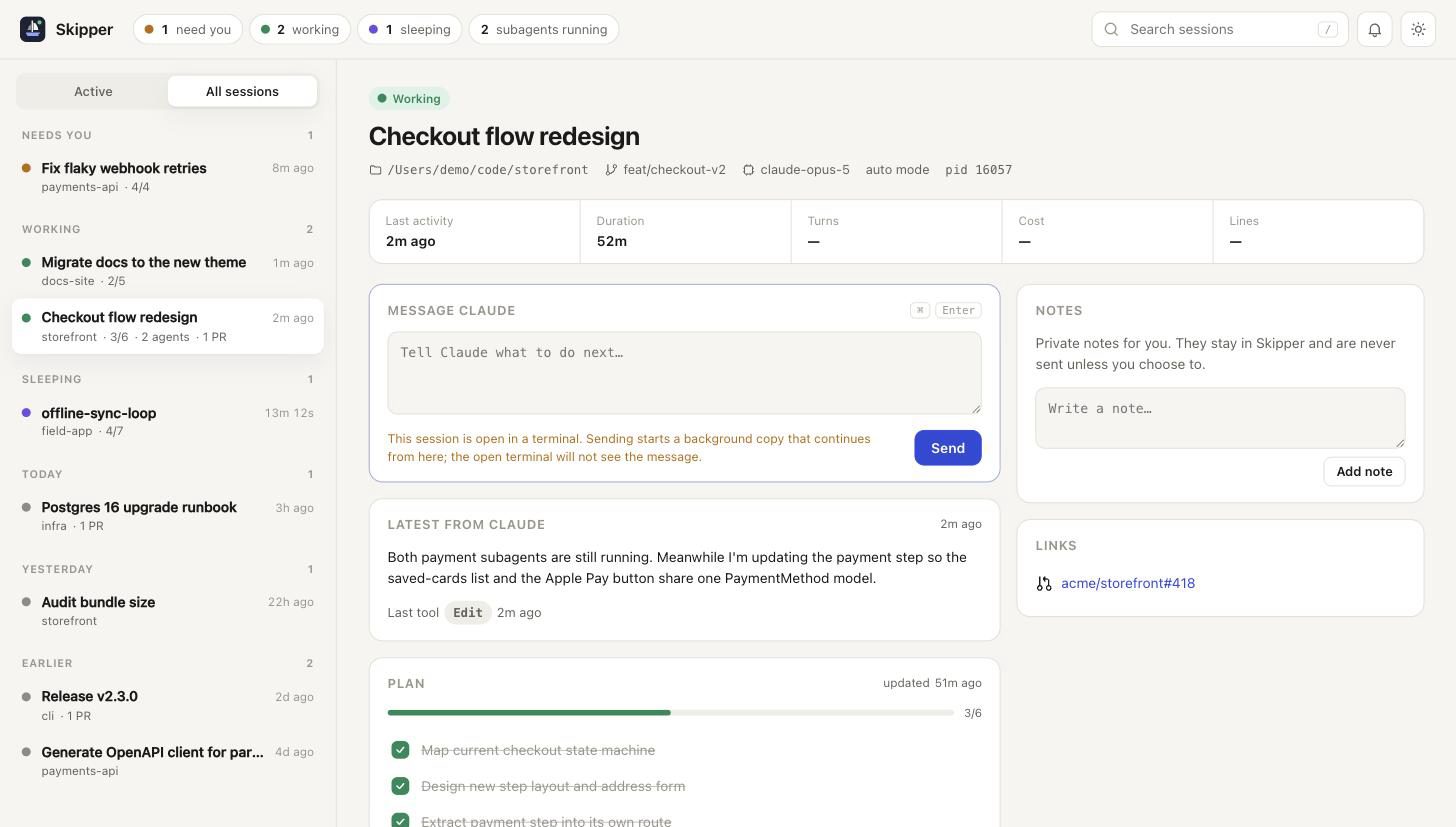
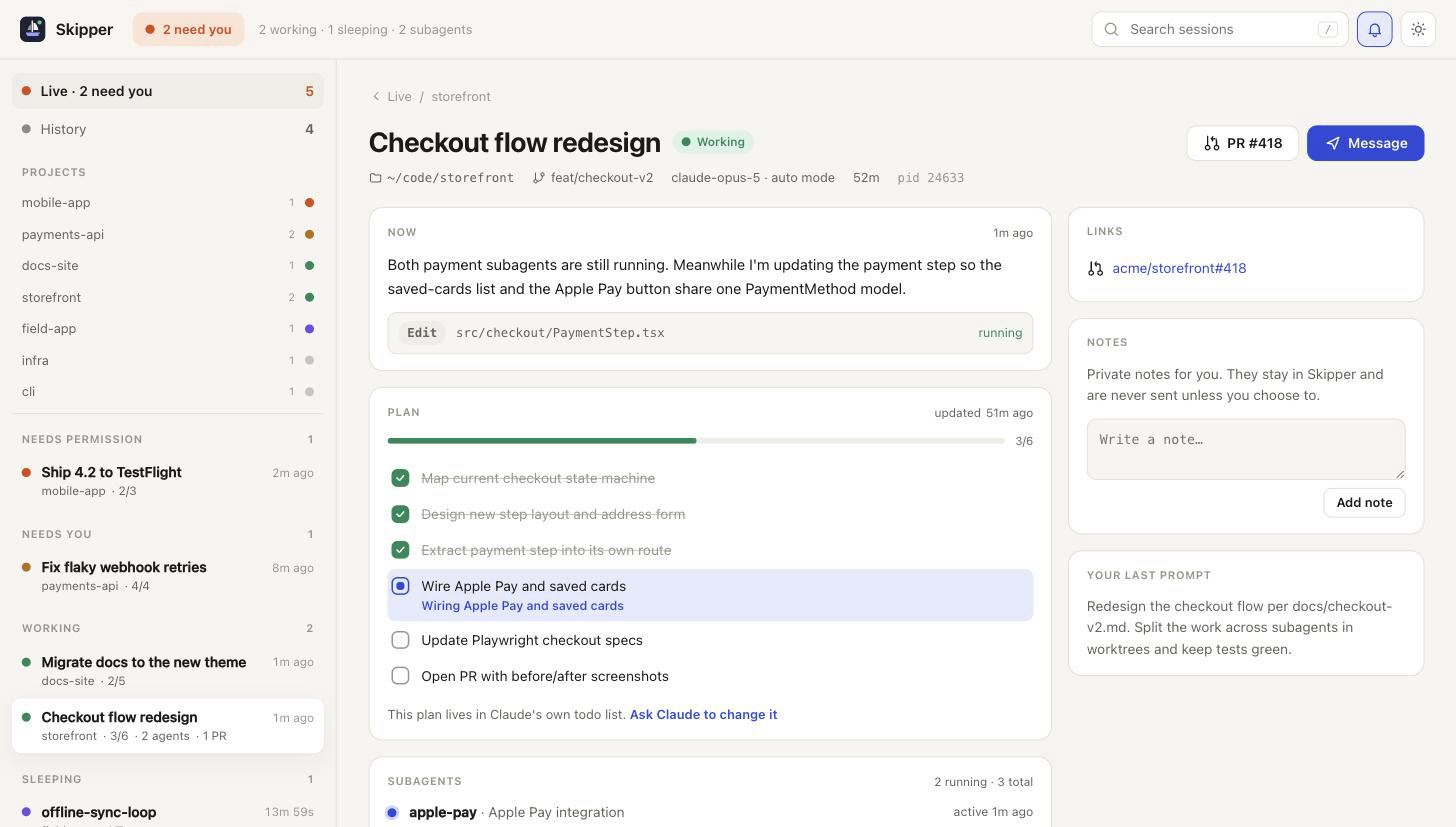
Redesign the session page
- Breadcrumb, title with state chip, and PR / Message actions in the header
- One meta line for path, branch, model, duration, turns, cost and lines
- Now card shows what the running tool is working on (file or command)
- Subagents as compact rows with status dots
- Composer docked below the work with a short delivery note
- Links, notes and the last prompt move to the side column

diff --git a/public/app.js b/public/app.js
@@ -632,16 +632,14 @@ function attentionPanel(d) {
 
 function composerPanel(d) {
   if (state.readOnly) return null;
-  const hint = d.live
-    ? 'This session is open in a terminal. Sending starts a background copy that continues from here; the open terminal will not see the message.'
-    : 'Continues this session in the background with claude --bg --resume. Open it any time with claude attach.';
-  return h('section', { class: `panel composer${d.live ? ' warn' : ''}`, id: 'composer' },
-    h('div', { class: 'panel-head' }, h('h2', {}, 'Message Claude'), h('span', { class: 'meta' }, h('kbd', {}, '⌘'), h('kbd', {}, 'Enter'))),
+  const note = d.live ? 'Open in a terminal · sends to a background copy' : 'Continues in the background · claude attach to open';
+  return h('section', { class: `composer-dock${d.live ? ' warn' : ''}`, id: 'composer' },
     h('form', { dataset: { action: 'message-send' } },
-      h('textarea', { name: 'message', rows: '3', maxlength: '20000', placeholder: d.state === 'waiting' ? 'Answer Claude or give the next instruction…' : 'Tell Claude what to do next…', 'aria-label': 'Message to Claude', dataset: { draft: 'message' } }, state.drafts.message[d.id] || ''),
+      h('textarea', { name: 'message', rows: '2', maxlength: '20000', placeholder: d.state === 'waiting' ? 'Answer Claude or give the next instruction…' : 'Tell Claude what to do next…', 'aria-label': 'Message to Claude', dataset: { draft: 'message' } }, state.drafts.message[d.id] || ''),
       h('div', { class: 'composer-foot' },
-        h('p', { class: 'hint' }, hint),
-        h('button', { class: 'btn primary', type: 'submit', disabled: state.sending ? true : null }, state.sending ? 'Sending…' : 'Send')),
+        h('span', { class: 'composer-note', title: d.live ? 'Claude Code has no public way to type into an open terminal, so Skipper resumes the conversation in the background with claude --bg --resume.' : null }, note),
+        h('span', { class: 'composer-keys' }, h('kbd', {}, '⌘'), h('kbd', {}, 'Enter')),
+        h('button', { class: 'btn primary', type: 'submit', disabled: state.sending ? true : null }, icon('send'), state.sending ? 'Sending…' : 'Send')),
     ),
   );
 }
@@ -678,21 +676,18 @@ function agentsPanel(d) {
   if (!d.agents.length) return null;
   const running = d.agents.filter((a) => a.status === 'running').length;
   return panel('Subagents', h('span', { class: 'meta' }, `${running} running · ${d.agents.length} total`),
-    h('div', { class: 'items' }, d.agents.slice(0, 12).map((a) =>
-      h('div', { class: 'item' },
-        h('div', { class: 'item-top' },
-          h('span', { class: 'item-title' }, a.name || a.description || a.agentType),
-          h('span', { class: `chip ${a.status}` }, a.status),
-        ),
-        a.name && a.description ? h('span', { class: 'muted' }, a.description) : null,
-        h('div', { class: 'meta-row' },
-          h('span', { class: 'meta' }, icon('bot'), a.agentType),
-          a.model ? h('span', { class: 'meta' }, icon('chip'), a.model) : null,
-          a.worktreeBranch ? h('span', { class: 'meta' }, icon('branch'), a.worktreeBranch) : null,
-          a.background ? h('span', { class: 'meta' }, 'background') : null,
-          h('span', { class: 'meta' }, a.status === 'running' && a.lastActiveAt ? ['active ', relTime(a.lastActiveAt)] : ['started ', relTime(a.startedAt)]),
-        ),
-        a.result && a.status !== 'running' ? h('div', { class: 'item-result' }, plain(a.result)) : null,
+    h('div', { class: 'agent-rows' }, d.agents.slice(0, 12).map((a) =>
+      h('div', { class: `agent-row ${a.status}` },
+        h('i', { class: `dot agent-${a.status}` }),
+        h('div', { class: 'agent-main' },
+          h('span', { class: 'agent-name' }, a.name || a.description || a.agentType, a.name && a.description ? h('span', { class: 'muted' }, ` · ${a.description}`) : null),
+          h('span', { class: 'agent-meta' },
+            a.model ? h('span', {}, a.model) : h('span', {}, a.agentType),
+            a.worktreeBranch ? h('span', { class: 'meta' }, icon('branch'), a.worktreeBranch) : null,
+            a.background ? h('span', {}, 'background') : null),
+          a.result && a.status !== 'running' ? h('span', { class: 'item-result' }, plain(a.result)) : null),
+        h('span', { class: 'agent-when' },
+          a.status === 'running' ? (a.lastActiveAt ? ['active ', relTime(a.lastActiveAt)] : ['started ', relTime(a.startedAt)]) : a.status === 'completed' ? 'done' : a.status),
       ),
     )),
     d.agents.length > 12 ? h('p', { class: 'muted' }, `+ ${d.agents.length - 12} earlier subagents`) : null,
@@ -761,36 +756,46 @@ function renderDetail(d) {
   if (!d) {
     return h('div', { class: 'empty' }, h('h1', {}, 'Session not found'), h('p', {}, h('a', { href: '#/' }, 'Back to overview')));
   }
-  const strip = (label, value) => h('div', {}, h('dt', {}, label), h('dd', {}, value));
-  const nowPanel = d.lastText
-    ? panel(d.state === 'ended' ? 'Last message' : 'Latest from Claude', h('span', { class: 'meta' }, relTime(d.lastTextAt)),
-      h('p', { class: 'quote clamp' }, plain(d.lastText)),
-      d.lastTool && d.state !== 'ended' ? h('p', { class: 'meta', style: 'margin:12px 0 0' }, 'Last tool ', h('span', { class: 'chip mono' }, toolName(d.lastTool.name)), relTime(d.lastTool.at)) : null)
+  const running = d.state === 'working';
+  const nowPanel = d.lastText || d.lastTool
+    ? h('section', { class: 'panel now-panel' },
+      h('div', { class: 'panel-head' }, h('h2', {}, d.state === 'ended' ? 'Last message' : 'Now'), h('span', { class: 'meta' }, relTime(d.lastTextAt || d.updatedAt))),
+      d.lastText ? h('p', { class: 'quote clamp now-text' }, plain(d.lastText)) : null,
+      d.lastTool && d.state !== 'ended'
+        ? h('div', { class: 'tool-row' },
+          h('span', { class: 'chip mono' }, toolName(d.lastTool.name)),
+          d.lastTool.target ? h('span', { class: 'tool-target mono' }, d.lastTool.target) : null,
+          h('span', { class: `tool-when${running ? ' live' : ''}` }, running ? 'running' : relTime(d.lastTool.at)))
+        : null)
     : null;
+  const pr = d.prs[d.prs.length - 1];
+  const stats = [
+    d.startedAt && d.updatedAt ? duration(d.updatedAt - d.startedAt) : null,
+    d.turns ? `${d.turns} turn${d.turns === 1 ? '' : 's'}` : null,
+    d.cost ? `$${d.cost.usd.toFixed(2)}` : null,
+  ].filter(Boolean);
 
-  return h('article', {},
-    h('a', { class: 'back', href: '#/' }, icon('back'), 'Overview'),
-    h('header', { class: 'detail-head' },
-      h('span', { class: `chip ${d.state}` }, h('i', { class: `dot ${d.state}` }), STATE_LABEL[d.state]),
-      h('h1', {}, d.title),
-      h('div', { class: 'meta-row' },
-        d.cwd ? h('span', { class: 'meta mono', title: d.cwd }, icon('folder'), d.cwd) : null,
-        d.branch && d.branch !== 'HEAD' ? h('span', { class: 'meta' }, icon('branch'), d.branch) : null,
-        d.model ? h('span', { class: 'meta' }, icon('chip'), d.model) : null,
-        d.permissionMode ? h('span', { class: 'meta' }, `${d.permissionMode} mode`) : null,
-        d.pid ? h('span', { class: 'meta mono' }, `pid ${d.pid}`) : null,
-      ),
-    ),
-    h('dl', { class: 'strip' },
-      strip('Last activity', relTime(d.updatedAt)),
-      strip('Duration', duration(d.updatedAt - d.startedAt)),
-      strip('Turns', d.turns || '—'),
-      strip('Cost', d.cost ? `$${d.cost.usd.toFixed(2)}` : '—'),
-      strip('Lines', d.cost ? `+${d.cost.linesAdded} −${d.cost.linesRemoved}` : '—'),
-    ),
+  return h('article', { class: 'session-page' },
+    h('nav', { class: 'crumbs', 'aria-label': 'Breadcrumb' },
+      h('a', { href: '#/' }, icon('back'), d.live ? 'Live' : 'History'), h('span', {}, '/'), h('span', {}, d.project)),
+    h('header', { class: 'session-head' },
+      h('div', { class: 'session-title' },
+        h('div', { class: 'title-row' },
+          h('h1', {}, d.title),
+          h('span', { class: `chip ${d.state}` }, h('i', { class: `dot ${d.state}` }), STATE_LABEL[d.state])),
+        h('div', { class: 'meta-line' },
+          d.cwd ? h('span', { class: 'meta mono', title: d.cwd }, icon('folder'), d.cwd.replace(/^\/(Users|home)\/[^/]+/, '~')) : null,
+          d.branch && d.branch !== 'HEAD' ? h('span', { class: 'meta' }, icon('branch'), d.branch) : null,
+          d.model ? h('span', { class: 'meta' }, [d.model, d.permissionMode ? `${d.permissionMode} mode` : null].filter(Boolean).join(' · ')) : null,
+          stats.length || d.cost ? h('span', { class: 'meta' }, stats.join(' · '),
+            d.cost ? [' · ', h('span', { class: 'plus' }, `+${d.cost.linesAdded}`), ' ', h('span', { class: 'minus' }, `−${d.cost.linesRemoved}`)] : null) : null,
+          d.pid ? h('span', { class: 'meta mono faint' }, `pid ${d.pid}`) : null)),
+      h('div', { class: 'head-actions' },
+        pr && safeHref(pr.url) ? h('a', { class: 'btn', href: safeHref(pr.url), target: '_blank', rel: 'noopener noreferrer' }, icon('pr'), pr.number ? `PR #${pr.number}` : 'Pull request') : null,
+        state.readOnly ? null : h('button', { class: 'btn primary', type: 'button', dataset: { action: 'focus-composer' } }, icon('send'), 'Message'))),
     detailGrid(
-      [attentionPanel(d), composerPanel(d), nowPanel, planPanel(d), agentsPanel(d), d.lastPrompt ? panel('Your last prompt', null, h('p', { class: 'quote clamp' }, d.lastPrompt)) : null],
-      [loopPanel(d), notesPanel(d), workflowsPanel(d), teamPanel(d), linksPanel(d)],
+      [attentionPanel(d), nowPanel, planPanel(d), agentsPanel(d), composerPanel(d)],
+      [loopPanel(d), linksPanel(d), notesPanel(d), workflowsPanel(d), teamPanel(d), d.lastPrompt ? panel('Your last prompt', null, h('p', { class: 'quote clamp muted' }, d.lastPrompt)) : null],
     ),
   );
 }
@@ -940,6 +945,9 @@ async function runAction(action, el, form) {
       case 'task-delete':
         await api('DELETE', `${base}/tasks/${el.dataset.task}`);
         break;
+      case 'focus-composer':
+        focusComposer();
+        return;
       case 'cancel-edit':
         state.editing = null;
         render();

diff --git a/public/app.css b/public/app.css
@@ -598,3 +598,66 @@ button.box:hover { border-color: var(--accent); }
 .rail-project small { color: var(--faint); font-variant-numeric: tabular-nums; }
 .rail-project .dot.ended { opacity: .45; }
 .rail-project[aria-pressed="true"] { background: var(--accent-soft); color: var(--accent); font-weight: 600; }
+
+/* ---------- Redesign: session page ---------- */
+.session-page { display: flex; flex-direction: column; gap: 20px; }
+.crumbs { display: flex; align-items: center; gap: 8px; color: var(--faint); font-size: 13px; }
+.crumbs a { display: inline-flex; align-items: center; gap: 4px; color: var(--faint); }
+.crumbs svg { width: 15px; height: 15px; }
+.session-head { display: flex; justify-content: space-between; align-items: flex-start; gap: 24px; }
+.session-title { display: flex; flex-direction: column; gap: 10px; min-width: 0; }
+.title-row { display: flex; align-items: center; gap: 12px; flex-wrap: wrap; }
+.title-row h1 { margin: 0; font-size: 28px; }
+.meta-line { display: flex; flex-wrap: wrap; gap: 6px 18px; }
+.meta.faint { color: var(--faint); }
+.plus { color: var(--working); }
+.minus { color: var(--danger); }
+.head-actions { display: flex; gap: 8px; flex: none; }
+.head-actions .btn { text-decoration: none; }
+.session-page .detail-grid { grid-template-columns: minmax(0, 1fr) 360px; }
+.session-page .detail-grid.single { grid-template-columns: minmax(0, 900px); }
+.session-page .panel-head h2 { font-size: 11px; letter-spacing: .06em; }
+.now-text { font-size: 15px; line-height: 1.6; }
+.tool-row { display: flex; align-items: center; gap: 10px; margin-top: 12px; padding: 8px 10px; border-radius: 9px; background: var(--bg); border: 1px solid var(--border); min-width: 0; }
+.tool-target { color: var(--muted); overflow: hidden; text-overflow: ellipsis; white-space: nowrap; flex: 1; min-width: 0; }
+.tool-when { margin-left: auto; color: var(--faint); font-size: 12.5px; white-space: nowrap; }
+.tool-when.live { color: var(--working); }
+
+.agent-rows { display: flex; flex-direction: column; }
+.agent-row { display: grid; grid-template-columns: 10px minmax(0, 1fr) auto; gap: 12px; align-items: start; padding: 10px 0; border-top: 1px solid var(--border); }
+.agent-row:first-child { border-top: 0; padding-top: 0; }
+.agent-row .dot { margin-top: 6px; }
+.dot.agent-running { background: var(--accent); box-shadow: 0 0 0 3px color-mix(in srgb, var(--accent) 22%, transparent); }
+.dot.agent-completed { background: var(--working); }
+.dot.agent-failed { background: var(--danger); }
+.dot.agent-quiet, .dot.agent-stopped { background: var(--ended); }
+.agent-main { display: flex; flex-direction: column; gap: 2px; min-width: 0; }
+.agent-name { font-weight: 590; overflow: hidden; text-overflow: ellipsis; white-space: nowrap; }
+.agent-name .muted { font-weight: 400; }
+.agent-meta { display: flex; flex-wrap: wrap; gap: 4px 12px; color: var(--faint); font-size: 12.5px; }
+.agent-meta .meta { font-size: 12.5px; color: var(--faint); }
+.agent-meta .meta svg { width: 13px; height: 13px; }
+.agent-when { color: var(--muted); font-size: 12.5px; white-space: nowrap; }
+.agent-row.completed .agent-when { color: var(--working); }
+.agent-row.failed .agent-when { color: var(--danger); }
+
+.composer-dock { padding: 12px; border: 1px solid color-mix(in srgb, var(--accent) 38%, var(--border)); border-radius: 16px; background: var(--surface); box-shadow: 0 12px 32px rgb(0 0 0 / 18%); }
+.composer-dock textarea { border: 0; background: transparent; box-shadow: none; font-size: 15px; min-height: 56px; resize: none; padding: 6px 8px; }
+.composer-dock textarea:focus { box-shadow: none; }
+.composer-dock:focus-within { border-color: var(--accent); }
+.composer-dock .composer-foot { margin-top: 6px; }
+.composer-note { padding: 4px 10px; border-radius: 999px; background: var(--surface-2); color: var(--muted); font-size: 12px; font-weight: 600; white-space: nowrap; overflow: hidden; text-overflow: ellipsis; min-width: 0; }
+.composer-dock.warn .composer-note { background: var(--waiting-soft); color: var(--waiting); }
+.composer-keys { display: flex; gap: 4px; margin-left: auto; }
+
+@media (max-width: 1180px) {
+  .session-page .detail-grid { grid-template-columns: minmax(0, 1fr); }
+}
+@media (max-width: 900px) {
+  .session-head { flex-direction: column; gap: 14px; }
+  .title-row h1 { font-size: 22px; }
+  .composer-keys { display: none; }
+  .composer-dock .composer-foot { flex-direction: row; align-items: center; }
+  .composer-dock .btn.primary { height: 44px; }
+  .crumbs { display: none; }
+}

diff --git a/test/transcript.test.js b/test/transcript.test.js
@@ -67,3 +67,8 @@ test('sidechain records are ignored and malformed records do not throw', () => {
   const s = fold([null, 42, { type: 'assistant', isSidechain: true, message: { content: [{ type: 'text', text: 'nope' }] } }]);
   assert.equal(s.lastText, null);
 });
+
+test('last tool records what it is working on', () => {
+  const s = fold([tool('Edit', { file_path: 'src/checkout/PaymentStep.tsx', old_string: 'a' }, 'e1'), tool('Bash', { command: 'npm test\nnpm run lint' }, 'b1', 2)]);
+  assert.deepEqual({ name: s.lastTool.name, target: s.lastTool.target }, { name: 'Bash', target: 'npm test' });
+});

diff --git a/src/transcript.js b/src/transcript.js
@@ -72,7 +72,8 @@ function applyNotification(s, text, at) {
 
 function applyToolUse(s, block, at) {
   const input = block.input || {};
-  s.lastTool = { name: block.name, at };
+  const target = input.file_path || input.notebook_path || input.command || input.pattern || input.url || input.query || input.description || input.skill || null;
+  s.lastTool = { name: block.name, at, target: typeof target === 'string' ? clip(target.split('\n')[0], 160) : null };
 
   if (block.name === 'TodoWrite' && Array.isArray(input.todos)) {
     s.todos = input.todos.map((t) => ({

diff --git a/README.md b/README.md
@@ -30,7 +30,7 @@ Running several Claude Code agents at once is powerful and hard to follow. One t
 
 ## Steer, not just watch
 
-<img src="docs/screenshots/session-light.png" alt="Session page with message composer, notes, plan and linked pull request" width="100%">
+<img src="docs/screenshots/session-light.png" alt="Session page: what Claude is doing now, the running tool, the plan, subagents and notes" width="100%">
 
 - **Message Claude.** Type the next instruction and Skipper hands it to the official CLI (`claude --bg --resume <session>`), so the session continues in the background. Attach any time with `claude attach`.
 - **Edit tasks.** Add, rename, complete and delete tasks in a session's task list. Deleting a task that still blocks others is refused.
